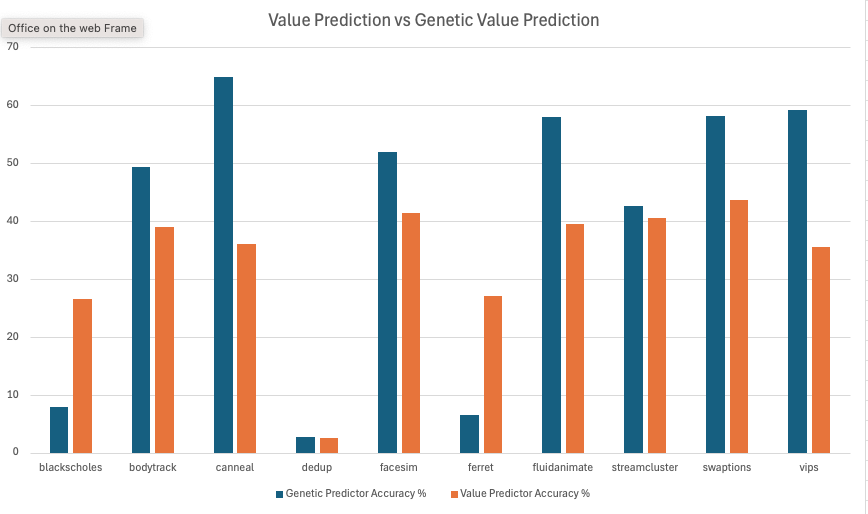
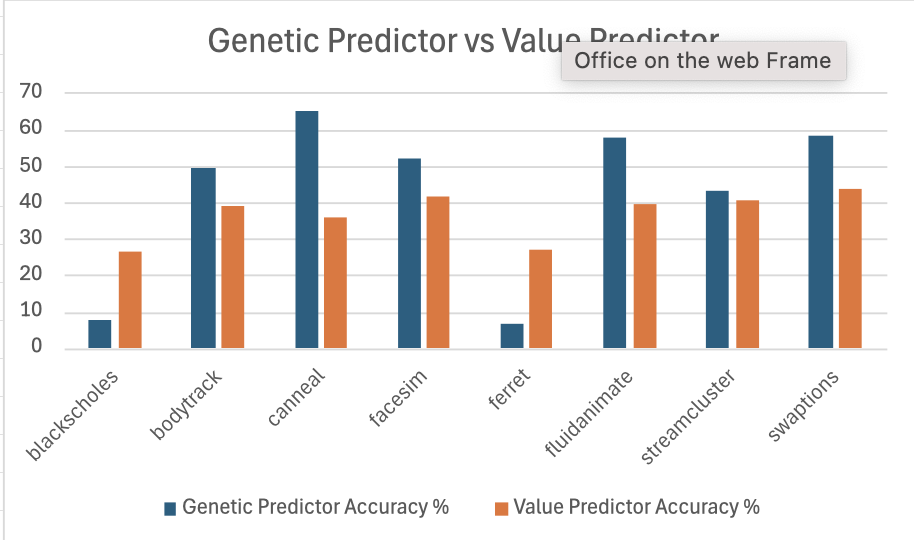
updated the readme

diff --git a/README.md b/README.md
@@ -706,29 +706,22 @@ Datele sunt extrase in cadrul fisierului **results.csv** din folderul output
 
 ## 4. Rezultate si concluzii
 ### Date rezultate 
-| Benchmark       | ALU Reuse % | Load Reuse % | Trivial % | Genetic Predictor Accuracy % | Value Predictor Accuracy % |
-|-----------------|-------------|---------------|-----------|-------------------------------|-----------------------------|
-| blackscholes    | 0.71        | 13.31         | 53.59     | 7.89474                       | 26.4834                     |
-| bodytrack       | 0.58        | 12.72         | 48.01     | 49.3113                       | 38.9483                     |
-| canneal         | 0.60        | 15.42         | 45.87     | 64.9378                       | 36.11                       |
-| dedup           | 0.01        | 13.29         | 63.74     | 2.63158                       | 2.48488                     |
-| facesim         | 0.45        | 16.40         | 42.64     | 51.8553                       | 41.4699                     |
-| ferret          | 0.77        | 13.94         | 53.47     | 6.52174                       | 27.1277                     |
-| fluidanimate    | 0.71        | 11.53         | 47.75     | 57.9114                       | 39.4272                     |
-| streamcluster   | 0.74        | 12.42         | 47.31     | 42.6667                       | 40.5782                     |
-| swaptions       | 0.68        | 12.65         | 47.10     | 58.1498                       | 43.7249                     |
-| vips            | 0.68        | 14.99         | 49.25     | 59.2683                       | 35.4777                     |
+| Benchmark      | Reuse % | Trivial % | Genetic Predictor Accuracy % | Value Predictor Accuracy % |
+|----------------|---------|-----------|-------------------------------|-----------------------------|
+| blackscholes   | 41.35   | 0.05      | 7.89474                       | 26.3309                     |
+| bodytrack      | 42.14   | 0.15      | 49.3113                       | 39.0702                     |
+| canneal        | 41.7    | 0.12      | 64.9378                       | 35.9314                     |
+| facesim        | 42.42   | 0.09      | 51.7724                       | 41.3628                     |
+| ferret         | 41.21   | 0.02      | 6.52174                       | 26.9987                     |
+| fluidanimate   | 41.36   | 0.13      | 57.9114                       | 39.5235                     |
+| streamcluster  | 41.21   | 0.11      | 43.2432                       | 40.4372                     |
+| swaptions      | 41.41   | 0.12      | 58.2781                       | 43.7879                     |
 
 ### 1. Procentajul de instructiuni triviale din suita de benchmark-uri Parsec
 ![Trivial](graph_images/Trivial.png "Trivial")
-Putem observa ca procentajul de instructiuni triviale este crescut, depasind frecvent 45%. Acest lucru indica un potential semnificativ de optimizare a performantei prin tratarea eficienta a acestor instructiuni
-### 2. Procentajul de instructiuni ALU reutilizate din suita de benchmark-uri Parsec
-![Trivial](graph_images/Alu.png "Trivial")
-Procentajul de reutilizare ALU este scazut, sub 0.8% pentru toate benchmark-urile. Acest lucru sugereaza o reutilizare limitata a rezultatelor operatiilor aritmetice.
-### 3. Procentajul de instructiuni Load reutilizate din suita de benchmark-uri Parsec
-![Trivial](graph_images/Load.png "Trivial")
-Procentajul de reutilizare a instructiunilor de tip Load variaza intre 11% si 16%. Acest lucru indica un nivel moderat de redundanta in accesarea datelor din memorie.
-### 4. Overall accuracy of Value Predictor vs Genetic Value Predictor
+### 2. Procentajul de instructiuni Load reutilizate din suita de benchmark-uri Parsec
+![Trivial](graph_images/Reuse.png "Trivial")
+### 3. Overall accuracy of Value Predictor vs Genetic Value Predictor
 ![Trivial](graph_images/PvP.png "")
 Comparand acuratetea predictiei de valori cu predictia de valori bazata pe algoritmul genetic, putem observa ca in majoritatea cazurilor, predictia genetica ofera rezultate mai bune. Remarcam benchmark-urile canneal, facesim, fluidanimate, swaptions si vips, unde acuratetea depaseste 50%. 
 In cazul benchmark-urilor dedup si ferret, avand in vedere ca cele doua sunt cele mai mici benchmark-uri, ne putem asuma ca algorimul genetic nu a avut suficient timp pentru a se antrena in identificarea pattern-urilor. De aceea, configuratia data de algoritmul genetic, este una mai slaba decat cea default a predictorului de valori.
